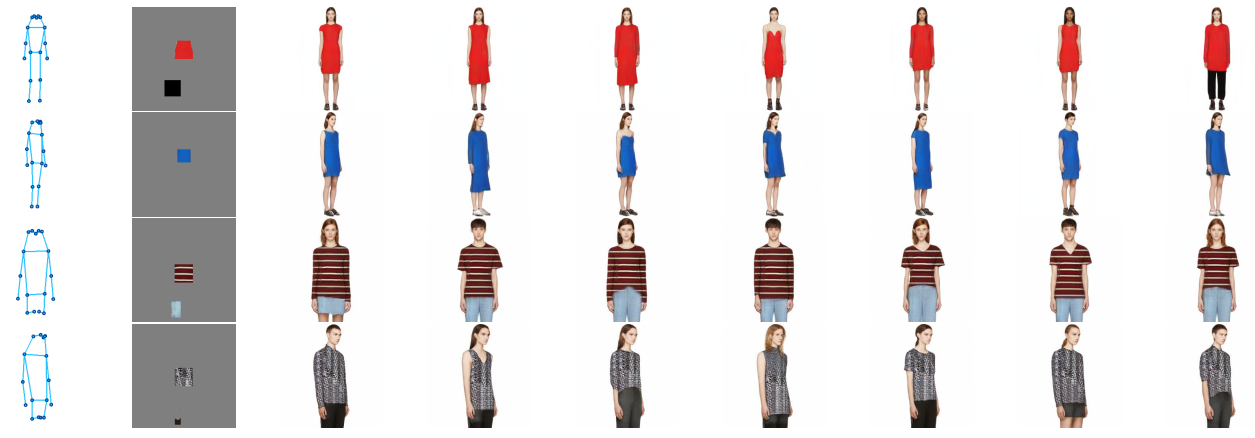
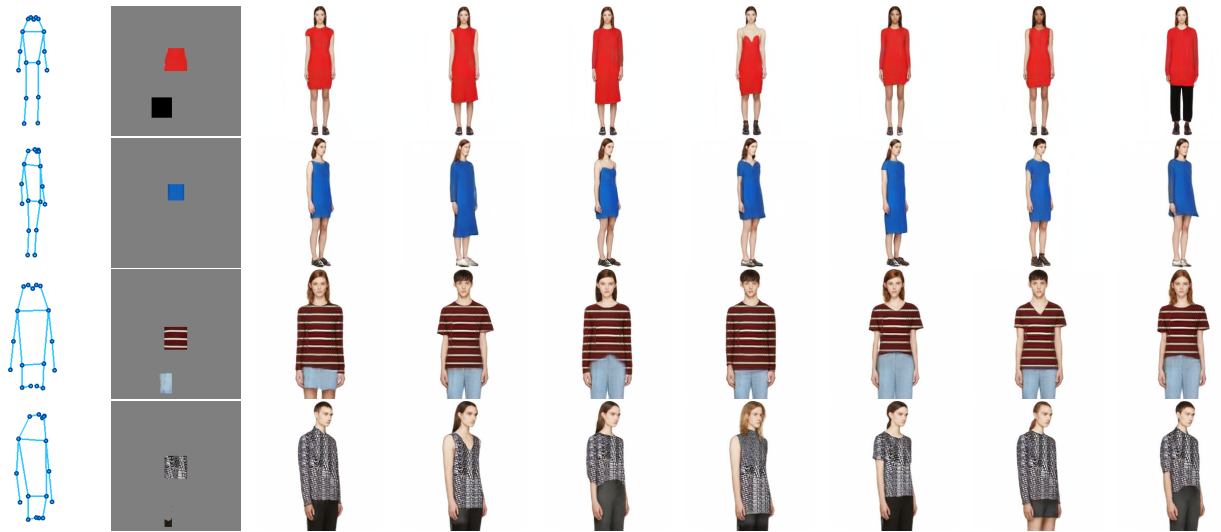
init

diff --git a/index.html b/index.html
@@ -76,7 +76,18 @@
 
     <br>
     <p style="text-align:justify">
-      In this paper, we explore a new AI-assisted fashion design problem for helping designers rapidly visualize an original garment, which can be effectively utilized by fashion design systems and machines to speed-up the design process. As illustrated in Figure 1, given a guided pose along with texture patches of tops and bottoms, our goal is to automatically generate a series of fashion designs with various clothed models from different views. This would allow fashion designers to use automated tools to get inspiration and augment their creativity since the texture reveals the most important attributes of the cloth like patterns, colours, and prints while the pose simulates different viewports.
+        In this paper, we investigate a new problem of generating a series of
+fashion design images conditioned on a guided human pose along
+with texture examples of arbitrary sizes for helping fashion designers rapidly visualize an original garment. Instead of learning a direct
+mapping, we propose a novel Photo-reaListic fAshion syNthesis
+(PLAN) framework, which decomposes the direct mapping into
+two manageable stages. In the first stage, we employ a semantic
+layout generative network to transform an input human pose into a
+series of person semantic layouts. In the second stage, we propose a
+texture synthesis network to synthesize textures on all transformed
+semantic layouts. Specifically, we design a novel attentive texture
+transfer mechanism for precisely expanding texture patches to the
+irregular clothing regions of the target fashion designs.
     </p>
     <hr>
 		 <!-- <table align=center width=550px> -->
@@ -104,7 +115,7 @@
             <td>
                 <center><h1>Results</h1></center>
                 <center>
-                    <a href="images/results1.PNG"><img src = "images/results1.PNG"  width=100% height=100%></img></a>
+                    <a href="images/results1.PNG"><img src = "images/results1.PNG"  width=80% height=80%></img></a>
                 </center>
                 <center>
                     <a href="images/results2.PNG"><img src = "images/results2.PNG"  width=100% height=100%></img></a>
